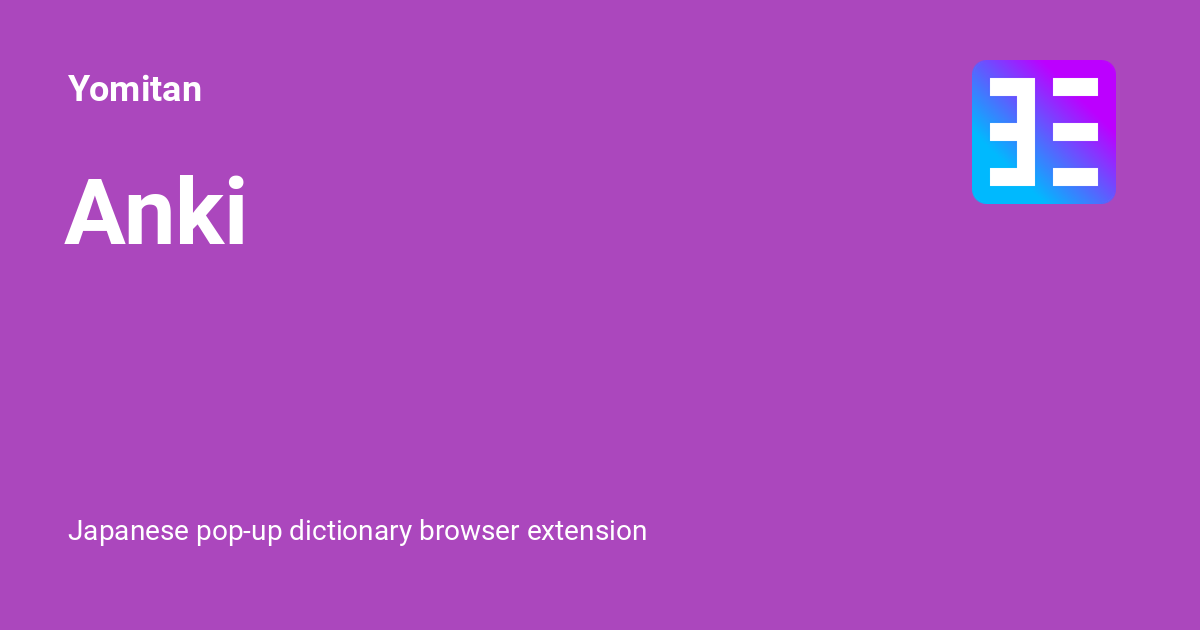
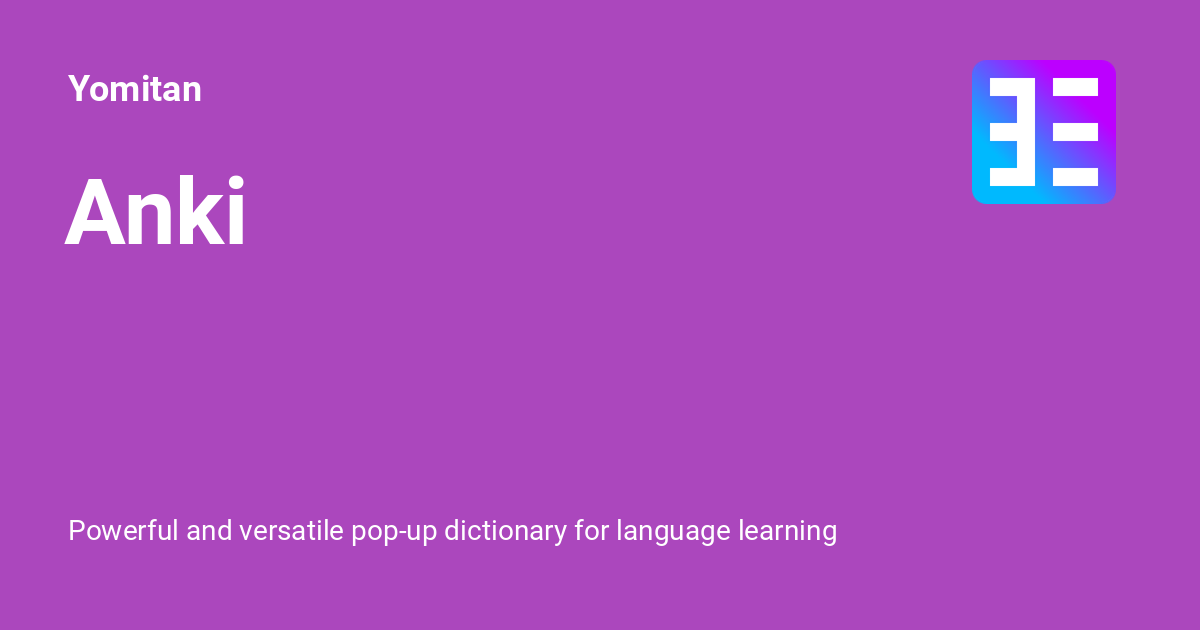
Deployed b5c9a64 with MkDocs version: 1.6.1

Changed region(s): [[0.0617, 0.8143, 0.7092, 0.8746]]

diff --git a/index.html b/index.html
@@ -6,7 +6,7 @@
       <meta charset="utf-8">
       <meta name="viewport" content="width=device-width,initial-scale=1">
       
-        <meta name="description" content="Powerful, versatile and efficient pop-up dictionary for language learning.">
+        <meta name="description" content="Powerful and versatile pop-up dictionary for language learning used by 40,000+ language-learners.">
       
       
         <meta name="author" content="Yomitan Authors">
@@ -63,7 +63,7 @@
       
         <meta  property="og:title"  content="Welcome to Yomitan" >
       
-        <meta  property="og:description"  content="Powerful, versatile and efficient pop-up dictionary for language learning." >
+        <meta  property="og:description"  content="Powerful and versatile pop-up dictionary for language learning used by 40,000+ language-learners." >
       
         <meta  property="og:image"  content="https://yomitan.wiki/assets/images/social/index.png" >
       
@@ -79,7 +79,7 @@
       
         <meta  name="twitter:title"  content="Welcome to Yomitan" >
       
-        <meta  name="twitter:description"  content="Powerful, versatile and efficient pop-up dictionary for language learning." >
+        <meta  name="twitter:description"  content="Powerful and versatile pop-up dictionary for language learning used by 40,000+ language-learners." >
       
         <meta  name="twitter:image"  content="https://yomitan.wiki/assets/images/social/index.png" >
       
@@ -488,9 +488,9 @@
     <ul class="md-nav__list" data-md-component="toc" data-md-scrollfix>
       
         <li class="md-nav__item">
-  <a href="#powerful-andversatile-pop-up-dictionary-for-language-learning-used-by-40000-language-learners" class="md-nav__link">
+  <a href="#powerful-and-versatile-pop-up-dictionary-for-language-learning-used-by-40000-language-learners" class="md-nav__link">
     <span class="md-ellipsis">
-      Powerful andversatile pop-up dictionary for language learning used by 40,000+ language-learners.
+      Powerful and versatile pop-up dictionary for language learning used by 40,000+ language-learners.
     </span>
   </a>
   
@@ -793,9 +793,9 @@
     <ul class="md-nav__list" data-md-component="toc" data-md-scrollfix>
       
         <li class="md-nav__item">
-  <a href="#powerful-andversatile-pop-up-dictionary-for-language-learning-used-by-40000-language-learners" class="md-nav__link">
+  <a href="#powerful-and-versatile-pop-up-dictionary-for-language-learning-used-by-40000-language-learners" class="md-nav__link">
     <span class="md-ellipsis">
-      Powerful andversatile pop-up dictionary for language learning used by 40,000+ language-learners.
+      Powerful and versatile pop-up dictionary for language learning used by 40,000+ language-learners.
     </span>
   </a>
   
@@ -829,7 +829,7 @@
 
 
 <h1 id="yomitan"><p style="text-align: center; margin-bottom: 10px; margin-top: 10px; font-size: 200%;"><strong>Yomitan</strong></p></h1>
-<h2 id="powerful-andversatile-pop-up-dictionary-for-language-learning-used-by-40000-language-learners"><p style="text-align: center">Powerful andversatile pop-up dictionary for language learning used by 40,000+ language-learners.</p></h2>
+<h2 id="powerful-and-versatile-pop-up-dictionary-for-language-learning-used-by-40000-language-learners"><p style="text-align: center">Powerful and versatile pop-up dictionary for language learning used by 40,000+ language-learners.</p></h2>
 <div class="grid">
 <p><a class="md-button md-button--primary md-button--stretch" href="https://chrome.google.com/webstore/detail/yomitan/likgccmbimhjbgkjambclfkhldnlhbnn"><span class="twemoji"><svg xmlns="http://www.w3.org/2000/svg" viewBox="0 0 512 512"><!--! Font Awesome Free 6.6.0 by @fontawesome - https://fontawesome.com License - https://fontawesome.com/license/free (Icons: CC BY 4.0, Fonts: SIL OFL 1.1, Code: MIT License) Copyright 2024 Fonticons, Inc.--><path d="M0 256c0-46.6 12.47-90.4 34.27-128.9L144.1 318.3C166 357.5 207.9 384 256 384c14.3 0 27.1-2.3 40.8-6.6l-76.3 132.2C95.9 492.3 0 385.3 0 256m365.1 65.6c12.3-19.2 18.9-42.5 18.9-65.6 0-38.2-16.8-72.5-43.3-96h152.7c12 29.6 18.6 62.1 18.6 96 0 141.4-114.6 255.1-256 256zM477.8 128H256c-62.9 0-113.7 44.1-125.5 102.7L54.19 98.47C101 38.53 174 0 256 0c94.8 0 177.5 51.48 221.8 128M168 256c0-48.6 39.4-88 88-88s88 39.4 88 88-39.4 88-88 88-88-39.4-88-88"/></svg></span> Get Yomitan <small>Chrome</small></a></p>
 <p><a class="md-button md-button--primary md-button--stretch" href="https://addons.mozilla.org/en-US/firefox/addon/yomitan/"><span class="twemoji"><svg xmlns="http://www.w3.org/2000/svg" viewBox="0 0 512 512"><!--! Font Awesome Free 6.6.0 by @fontawesome - https://fontawesome.com License - https://fontawesome.com/license/free (Icons: CC BY 4.0, Fonts: SIL OFL 1.1, Code: MIT License) Copyright 2024 Fonticons, Inc.--><path d="M130.22 127.548c.16.01.08.01 0 0m351.42 45.35c-10.61-25.5-32.08-53-48.94-61.73 13.72 26.89 21.67 53.88 24.7 74q.008.207.05.41c-27.58-68.75-74.352-96.47-112.55-156.83-14.992-23.69-10.924-25.23-13.08-24.66l-.12.07c-46.71 25.953-75.335 78.37-82.58 122.74a127.3 127.3 0 0 0-47.93 12.137 6.524 6.524 0 0 0-3.684 7.288 6.16 6.16 0 0 0 3.006 3.995 6.16 6.16 0 0 0 4.979.45l.52-.21a118.7 118.7 0 0 1 49.53-11.32c62.828-.569 97.157 44.024 107.62 62.29-13-9.15-36.35-18.19-58.82-14.28 87.74 43.86 64.2 194.536-57.39 189.2-59.464-2.61-97.07-50.981-100.53-90.8 0 0 11.25-41.95 80.62-41.95 7.5 0 28.93-20.92 29.33-27-.09-2-42.535-18.876-59.09-35.18-8.847-8.713-13.052-12.907-16.77-16.06a70 70 0 0 0-6.31-4.77 113.05 113.05 0 0 1-.691-59.63c-25.06 11.41-44.55 29.45-58.71 45.37h-.12c-9.67-12.25-9-52.65-8.43-61.08-.12-.53-7.228 3.668-8.15 4.31a168.3 168.3 0 0 0-23.84 20.43c-16.291 16.6-44.132 50.154-55.5 101.23-4.536 20.383-6.76 44.421-6.76 52.3 0 134.7 109.21 243.89 243.92 243.89 120.64 0 223.019-87.227 240.43-202.62 11.572-76.696-14.71-131.068-14.71-131.99"/></svg></span> Get Yomitan <small>Firefox</small></a></p>

diff --git a/other/yomichan-migration/index.html b/other/yomichan-migration/index.html
@@ -6,7 +6,7 @@
       <meta charset="utf-8">
       <meta name="viewport" content="width=device-width,initial-scale=1">
       
-        <meta name="description" content="Japanese pop-up dictionary browser extension">
+        <meta name="description" content="Powerful and versatile pop-up dictionary for language learning">
       
       
         <meta name="author" content="Yomitan Authors">
@@ -63,7 +63,7 @@
       
         <meta  property="og:title"  content="Migrating from Yomichan (legacy) - Yomitan" >
       
-        <meta  property="og:description"  content="Japanese pop-up dictionary browser extension" >
+        <meta  property="og:description"  content="Powerful and versatile pop-up dictionary for language learning" >
       
         <meta  property="og:image"  content="https://yomitan.wiki/assets/images/social/other/yomichan-migration.png" >
       
@@ -79,7 +79,7 @@
       
         <meta  name="twitter:title"  content="Migrating from Yomichan (legacy) - Yomitan" >
       
-        <meta  name="twitter:description"  content="Japanese pop-up dictionary browser extension" >
+        <meta  name="twitter:description"  content="Powerful and versatile pop-up dictionary for language learning" >
       
         <meta  name="twitter:image"  content="https://yomitan.wiki/assets/images/social/other/yomichan-migration.png" >
       

diff --git a/other/supported-languages/index.html b/other/supported-languages/index.html
@@ -6,7 +6,7 @@
       <meta charset="utf-8">
       <meta name="viewport" content="width=device-width,initial-scale=1">
       
-        <meta name="description" content="Japanese pop-up dictionary browser extension">
+        <meta name="description" content="Powerful and versatile pop-up dictionary for language learning">
       
       
         <meta name="author" content="Yomitan Authors">
@@ -65,7 +65,7 @@
       
         <meta  property="og:title"  content="Supported languages - Yomitan" >
       
-        <meta  property="og:description"  content="Japanese pop-up dictionary browser extension" >
+        <meta  property="og:description"  content="Powerful and versatile pop-up dictionary for language learning" >
       
         <meta  property="og:image"  content="https://yomitan.wiki/assets/images/social/other/supported-languages.png" >
       
@@ -81,7 +81,7 @@
       
         <meta  name="twitter:title"  content="Supported languages - Yomitan" >
       
-        <meta  name="twitter:description"  content="Japanese pop-up dictionary browser extension" >
+        <meta  name="twitter:description"  content="Powerful and versatile pop-up dictionary for language learning" >
       
         <meta  name="twitter:image"  content="https://yomitan.wiki/assets/images/social/other/supported-languages.png" >
       

diff --git a/getting-started/index.html b/getting-started/index.html
@@ -6,7 +6,7 @@
       <meta charset="utf-8">
       <meta name="viewport" content="width=device-width,initial-scale=1">
       
-        <meta name="description" content="Japanese pop-up dictionary browser extension">
+        <meta name="description" content="Powerful and versatile pop-up dictionary for language learning">
       
       
         <meta name="author" content="Yomitan Authors">
@@ -65,7 +65,7 @@
       
         <meta  property="og:title"  content="Getting started - Yomitan" >
       
-        <meta  property="og:description"  content="Japanese pop-up dictionary browser extension" >
+        <meta  property="og:description"  content="Powerful and versatile pop-up dictionary for language learning" >
       
         <meta  property="og:image"  content="https://yomitan.wiki/assets/images/social/getting-started/index.png" >
       
@@ -81,7 +81,7 @@
       
         <meta  name="twitter:title"  content="Getting started - Yomitan" >
       
-        <meta  name="twitter:description"  content="Japanese pop-up dictionary browser extension" >
+        <meta  name="twitter:description"  content="Powerful and versatile pop-up dictionary for language learning" >
       
         <meta  name="twitter:image"  content="https://yomitan.wiki/assets/images/social/getting-started/index.png" >
       

diff --git a/other/permissions/index.html b/other/permissions/index.html
@@ -6,7 +6,7 @@
       <meta charset="utf-8">
       <meta name="viewport" content="width=device-width,initial-scale=1">
       
-        <meta name="description" content="Japanese pop-up dictionary browser extension">
+        <meta name="description" content="Powerful and versatile pop-up dictionary for language learning">
       
       
         <meta name="author" content="Yomitan Authors">
@@ -65,7 +65,7 @@
       
         <meta  property="og:title"  content="Browser permissions - Yomitan" >
       
-        <meta  property="og:description"  content="Japanese pop-up dictionary browser extension" >
+        <meta  property="og:description"  content="Powerful and versatile pop-up dictionary for language learning" >
       
         <meta  property="og:image"  content="https://yomitan.wiki/assets/images/social/other/permissions.png" >
       
@@ -81,7 +81,7 @@
       
         <meta  name="twitter:title"  content="Browser permissions - Yomitan" >
       
-        <meta  name="twitter:description"  content="Japanese pop-up dictionary browser extension" >
+        <meta  name="twitter:description"  content="Powerful and versatile pop-up dictionary for language learning" >
       
         <meta  name="twitter:image"  content="https://yomitan.wiki/assets/images/social/other/permissions.png" >
       

diff --git a/advanced/index.html b/advanced/index.html
@@ -6,7 +6,7 @@
       <meta charset="utf-8">
       <meta name="viewport" content="width=device-width,initial-scale=1">
       
-        <meta name="description" content="Japanese pop-up dictionary browser extension">
+        <meta name="description" content="Powerful and versatile pop-up dictionary for language learning">
       
       
         <meta name="author" content="Yomitan Authors">
@@ -65,7 +65,7 @@
       
         <meta  property="og:title"  content="Advanced Features - Yomitan" >
       
-        <meta  property="og:description"  content="Japanese pop-up dictionary browser extension" >
+        <meta  property="og:description"  content="Powerful and versatile pop-up dictionary for language learning" >
       
         <meta  property="og:image"  content="https://yomitan.wiki/assets/images/social/advanced/index.png" >
       
@@ -81,7 +81,7 @@
       
         <meta  name="twitter:title"  content="Advanced Features - Yomitan" >
       
-        <meta  name="twitter:description"  content="Japanese pop-up dictionary browser extension" >
+        <meta  name="twitter:description"  content="Powerful and versatile pop-up dictionary for language learning" >
       
         <meta  name="twitter:image"  content="https://yomitan.wiki/assets/images/social/advanced/index.png" >
       

diff --git a/dictionaries/index.html b/dictionaries/index.html
@@ -6,7 +6,7 @@
       <meta charset="utf-8">
       <meta name="viewport" content="width=device-width,initial-scale=1">
       
-        <meta name="description" content="Japanese pop-up dictionary browser extension">
+        <meta name="description" content="Powerful and versatile pop-up dictionary for language learning">
       
       
         <meta name="author" content="Yomitan Authors">
@@ -65,7 +65,7 @@
       
         <meta  property="og:title"  content="Dictionaries - Yomitan" >
       
-        <meta  property="og:description"  content="Japanese pop-up dictionary browser extension" >
+        <meta  property="og:description"  content="Powerful and versatile pop-up dictionary for language learning" >
       
         <meta  property="og:image"  content="https://yomitan.wiki/assets/images/social/dictionaries/index.png" >
       
@@ -81,7 +81,7 @@
       
         <meta  name="twitter:title"  content="Dictionaries - Yomitan" >
       
-        <meta  name="twitter:description"  content="Japanese pop-up dictionary browser extension" >
+        <meta  name="twitter:description"  content="Powerful and versatile pop-up dictionary for language learning" >
       
         <meta  name="twitter:image"  content="https://yomitan.wiki/assets/images/social/dictionaries/index.png" >
       

diff --git a/community/index.html b/community/index.html
@@ -6,7 +6,7 @@
       <meta charset="utf-8">
       <meta name="viewport" content="width=device-width,initial-scale=1">
       
-        <meta name="description" content="Japanese pop-up dictionary browser extension">
+        <meta name="description" content="Powerful and versatile pop-up dictionary for language learning">
       
       
         <meta name="author" content="Yomitan Authors">
@@ -65,7 +65,7 @@
       
         <meta  property="og:title"  content="Community - Yomitan" >
       
-        <meta  property="og:description"  content="Japanese pop-up dictionary browser extension" >
+        <meta  property="og:description"  content="Powerful and versatile pop-up dictionary for language learning" >
       
         <meta  property="og:image"  content="https://yomitan.wiki/assets/images/social/community/index.png" >
       
@@ -81,7 +81,7 @@
       
         <meta  name="twitter:title"  content="Community - Yomitan" >
       
-        <meta  name="twitter:description"  content="Japanese pop-up dictionary browser extension" >
+        <meta  name="twitter:description"  content="Powerful and versatile pop-up dictionary for language learning" >
       
         <meta  name="twitter:image"  content="https://yomitan.wiki/assets/images/social/community/index.png" >
       

diff --git a/anki/index.html b/anki/index.html
@@ -6,7 +6,7 @@
       <meta charset="utf-8">
       <meta name="viewport" content="width=device-width,initial-scale=1">
       
-        <meta name="description" content="Japanese pop-up dictionary browser extension">
+        <meta name="description" content="Powerful and versatile pop-up dictionary for language learning">
       
       
         <meta name="author" content="Yomitan Authors">
@@ -65,7 +65,7 @@
       
         <meta  property="og:title"  content="Anki - Yomitan" >
       
-        <meta  property="og:description"  content="Japanese pop-up dictionary browser extension" >
+        <meta  property="og:description"  content="Powerful and versatile pop-up dictionary for language learning" >
       
         <meta  property="og:image"  content="https://yomitan.wiki/assets/images/social/anki/index.png" >
       
@@ -81,7 +81,7 @@
       
         <meta  name="twitter:title"  content="Anki - Yomitan" >
       
-        <meta  name="twitter:description"  content="Japanese pop-up dictionary browser extension" >
+        <meta  name="twitter:description"  content="Powerful and versatile pop-up dictionary for language learning" >
       
         <meta  name="twitter:image"  content="https://yomitan.wiki/assets/images/social/anki/index.png" >
       

diff --git a/other/faq/index.html b/other/faq/index.html
@@ -6,7 +6,7 @@
       <meta charset="utf-8">
       <meta name="viewport" content="width=device-width,initial-scale=1">
       
-        <meta name="description" content="Japanese pop-up dictionary browser extension">
+        <meta name="description" content="Powerful and versatile pop-up dictionary for language learning">
       
       
         <meta name="author" content="Yomitan Authors">
@@ -65,7 +65,7 @@
       
         <meta  property="og:title"  content="FAQ - Yomitan" >
       
-        <meta  property="og:description"  content="Japanese pop-up dictionary browser extension" >
+        <meta  property="og:description"  content="Powerful and versatile pop-up dictionary for language learning" >
       
         <meta  property="og:image"  content="https://yomitan.wiki/assets/images/social/other/faq.png" >
       
@@ -81,7 +81,7 @@
       
         <meta  name="twitter:title"  content="FAQ - Yomitan" >
       
-        <meta  name="twitter:description"  content="Japanese pop-up dictionary browser extension" >
+        <meta  name="twitter:description"  content="Powerful and versatile pop-up dictionary for language learning" >
       
         <meta  name="twitter:image"  content="https://yomitan.wiki/assets/images/social/other/faq.png" >
       

diff --git a/404.html b/404.html
@@ -6,7 +6,7 @@
       <meta charset="utf-8">
       <meta name="viewport" content="width=device-width,initial-scale=1">
       
-        <meta name="description" content="Japanese pop-up dictionary browser extension">
+        <meta name="description" content="Powerful and versatile pop-up dictionary for language learning">
       
       
         <meta name="author" content="Yomitan Authors">
